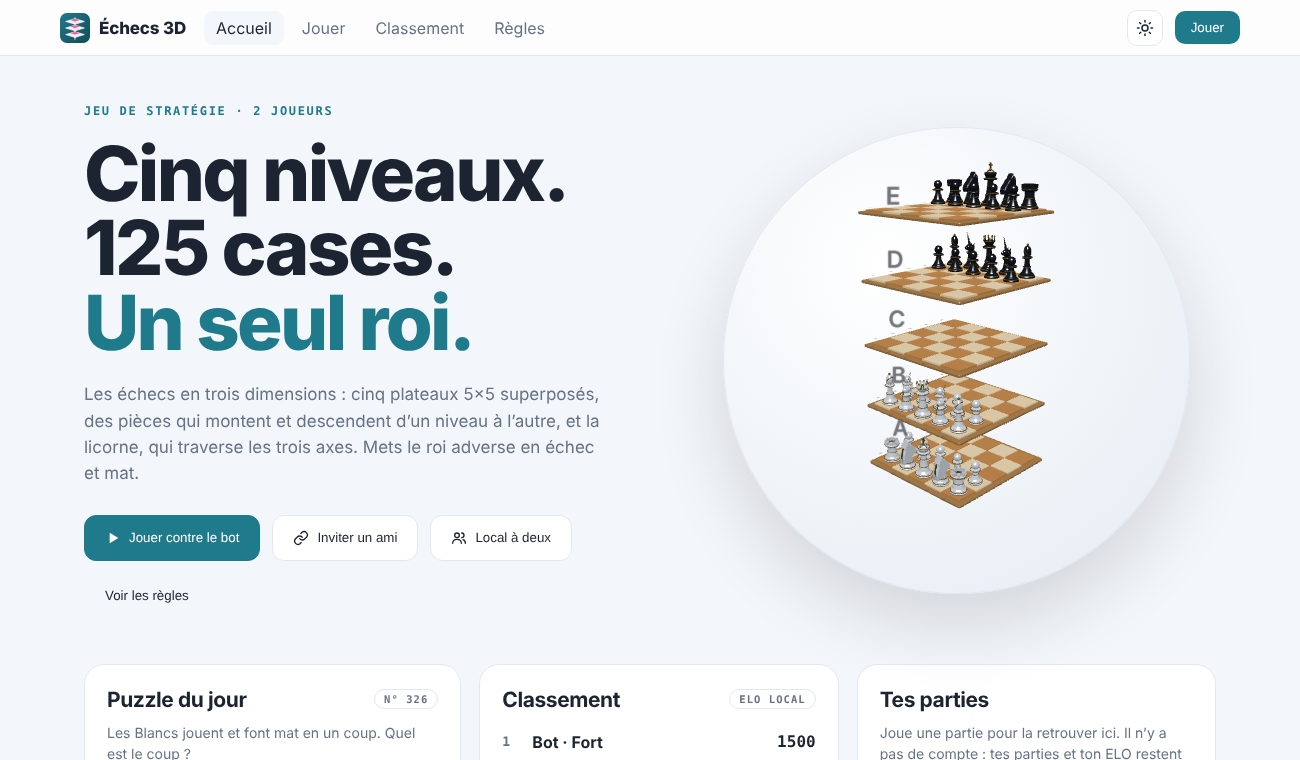
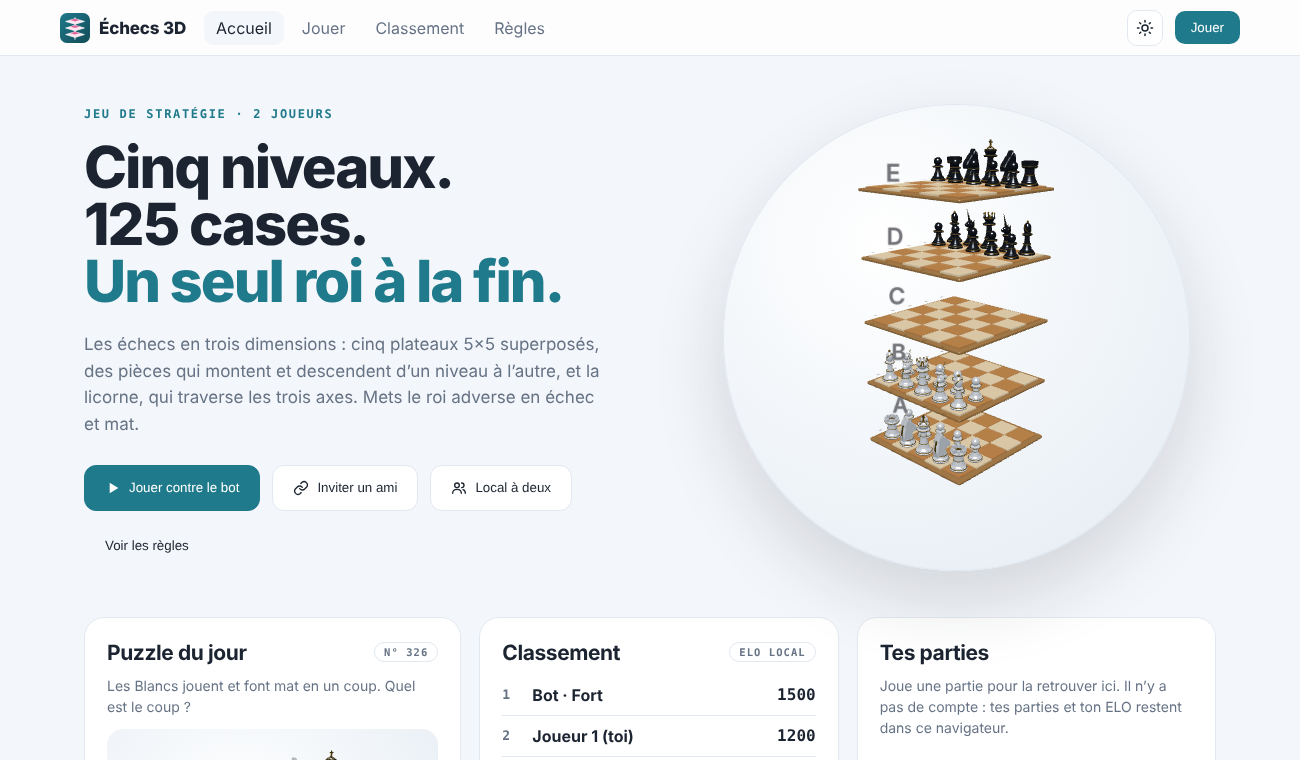
Slogan : « Cinq niveaux. 125 cases. Un seul roi à la fin. » ; retrait de la phrase sur l'écran de fin
Claude-Session: https://claude.ai/code/session_01Grt3MVHYQUhc4gDu99tZDS

diff --git a/index.html b/index.html
@@ -107,7 +107,7 @@ body[data-view=home] #home-view,body[data-view=rank] #rank-view,body[data-view=r
 .wrap{max-width:1180px;margin:0 auto;padding:0 24px}
 .hero{display:grid;grid-template-columns:1.05fr .95fr;gap:40px;align-items:center;padding:48px 0 40px}
 .eyebrow{font:600 12px ui-monospace,Menlo,monospace;letter-spacing:.14em;color:var(--acc);margin-bottom:18px}
-.hero h1{font-size:clamp(40px,6vw,76px);line-height:.98;letter-spacing:-.035em;margin:0 0 22px;font-weight:800}
+.hero h1{font-size:clamp(34px,4.5vw,58px);line-height:.98;letter-spacing:-.035em;margin:0 0 22px;font-weight:800}
 .hero h1 em{font-style:normal;color:var(--acc)}
 .hero p{font-size:17px;line-height:1.55;color:var(--mut);max-width:520px;margin:0 0 28px}
 .hbtns{display:flex;flex-wrap:wrap;gap:12px;align-items:center}
@@ -207,7 +207,7 @@ body[data-view=home] #home-view,body[data-view=rank] #rank-view,body[data-view=r
   <div class="hero">
     <div>
       <div class="eyebrow">JEU DE STRATÉGIE · 2 JOUEURS</div>
-      <h1>Cinq niveaux.<br>125 cases.<br><em>Un seul roi.</em></h1>
+      <h1>Cinq niveaux.<br>125 cases.<br><em>Un seul roi à la fin.</em></h1>
       <p>Les échecs en trois dimensions : cinq plateaux 5×5 superposés, des pièces qui montent et descendent d’un niveau à l’autre, et la licorne, qui traverse les trois axes. Mets le roi adverse en échec et mat.</p>
       <div class="hbtns">
         <button class="hbtn pri" id="h-bot"><svg viewBox="0 0 24 24" fill="currentColor"><path d="M7 4l13 8-13 8z"/></svg>Jouer contre le bot</button>
@@ -246,7 +246,7 @@ body[data-view=home] #home-view,body[data-view=rank] #rank-view,body[data-view=r
     <button id="v-in" title="Zoomer">+</button><button id="v-out" title="Dézoomer">−</button>
   </div>
   <div id="vhint">Glisser : tourner · Molette : zoom</div>
-  <div id="endc"><div class="endbox"><div class="big" id="end-ic">♔</div><h2 id="end-t"></h2><div class="tag">Un seul roi.</div><p id="end-s"></p><div class="ed" id="end-d"></div><div class="row"><button class="btn" id="end-x">Voir le plateau</button><button class="btn pri" id="end-n">Rejouer</button></div></div></div>
+  <div id="endc"><div class="endbox"><div class="big" id="end-ic">♔</div><h2 id="end-t"></h2><p id="end-s"></p><div class="ed" id="end-d"></div><div class="row"><button class="btn" id="end-x">Voir le plateau</button><button class="btn pri" id="end-n">Rejouer</button></div></div></div>
 </main>
 <aside id="side">
   <div class="sh"><div id="status"><span class="dot w" id="dot"></span><div><small>Au trait</small><b id="turn"></b></div><span class="mode" id="mode"></span></div><div id="msg"></div><div hidden id="lvh"><div class="lv" id="lv"><button data-v="1"></button><button data-v="2"></button><button data-v="3"></button><button data-v="0"></button><button id="o-net"></button></div></div></div>
